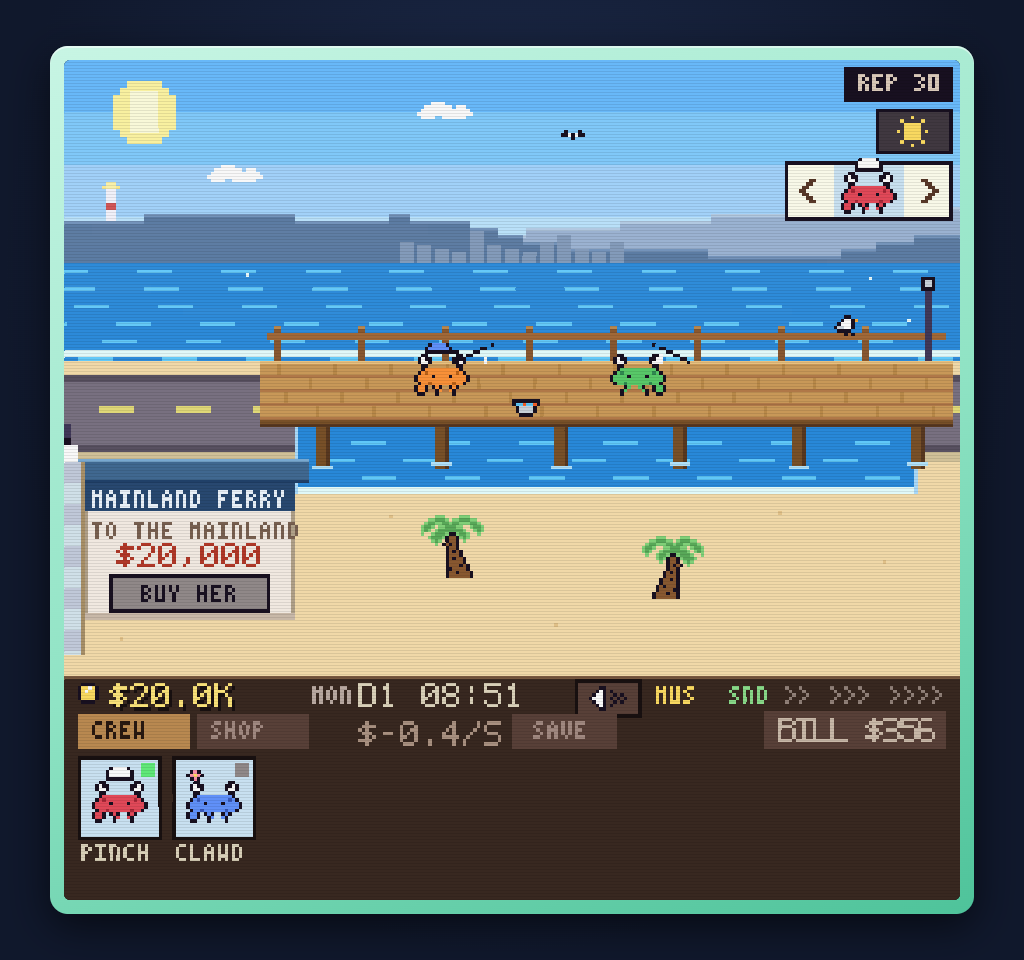
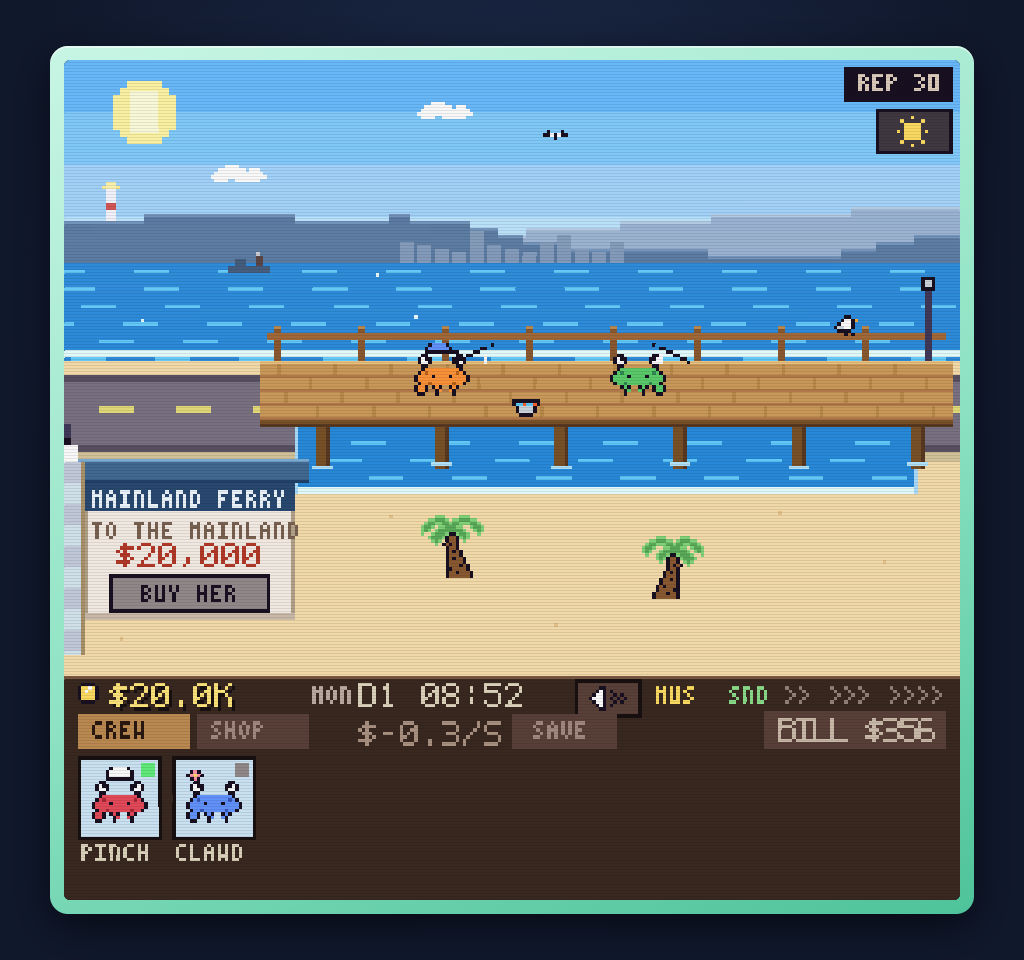
Devlog: cycler moved to the card, the haze has a floor, freighter in frame

diff --git a/DEVLOG.md b/DEVLOG.md
@@ -13,7 +13,8 @@ Play it: **[groblegark.github.io/crab-shack-3](https://groblegark.github.io/crab
 ![The ferry office: TO THE MAINLAND, $20,000, BUY HER](devlog/img/2026-08-19-ferry-office.png)
 
 *East end of the beach, past the pier. A ticket office, a price, and a
-button. Behind it, across the water: ridges, a lighthouse, and a city.*
+button. Behind it, across the water: ridges, a lighthouse, a city — and a
+freighter working the channel, because this town imported something today.*
 
 Yesterday we published a capstone declaring CRAB SHACK 3 finished. The
 town has since acquired a horizon, a rival, a win condition and a ferry,
@@ -29,9 +30,14 @@ geography instead of scenery.
 
 Most evenings you can't see it. Mist rolls in from about six, thick and
 day-specific, and it does not lift at midnight; the small hours belong to
-last night's weather. Roughly one night in five comes up genuinely clear,
-and that's the whole design: **on a clear night you can see where you are
-not.**
+last night's weather. Roughly one night in five comes up clear enough to
+count as clear, and that's the whole design: **on a clear night you can see
+where you are not.**
+
+There is never a *perfectly* clear night, either — the haze has a floor
+baked into it, so the far shore is never crisp. On the best nights it's
+only close enough to count the town lights. You are, after all, on an
+island.
 
 ![A clear evening: the far shore reads sharp](devlog/img/2026-08-19-clear-night.png)
 ![A thick evening: the same shore, nearly gone](devlog/img/2026-08-19-thick-night.png)
@@ -103,10 +109,12 @@ three make an offer; one runs the whole arc.
 - **Wages are per crab.** Town standard, then per business, then per
   individual — which is precisely what gives the rival's wage war
   something to bite.
-- **A < crab > cycler** under the sun button steps selection and camera
-  through everyone in town ([ and ] on a keyboard). Tourists are excluded
-  on purpose: they go home mid-cycle, and a list that changes length under
-  your thumb isn't a list.
+- **A < crab > cycler** steps selection and camera through everyone in
+  town — two small chevrons in the character card's own header, so it
+  costs no screen when nobody's selected ([ and ] work regardless). A
+  tourist's card gets them too, as the way back into the roster. Tourists
+  are excluded from the cycle on purpose: they go home mid-loop, and a
+  list that changes length under your thumb isn't a list.
 - **Every crab keeps a diary** — a ring buffer of what they've been doing,
   in their detail view, with a FOLLOW button. And walkouts now record
   *why*: a crab who quits over money says so; one who quit from boredom
